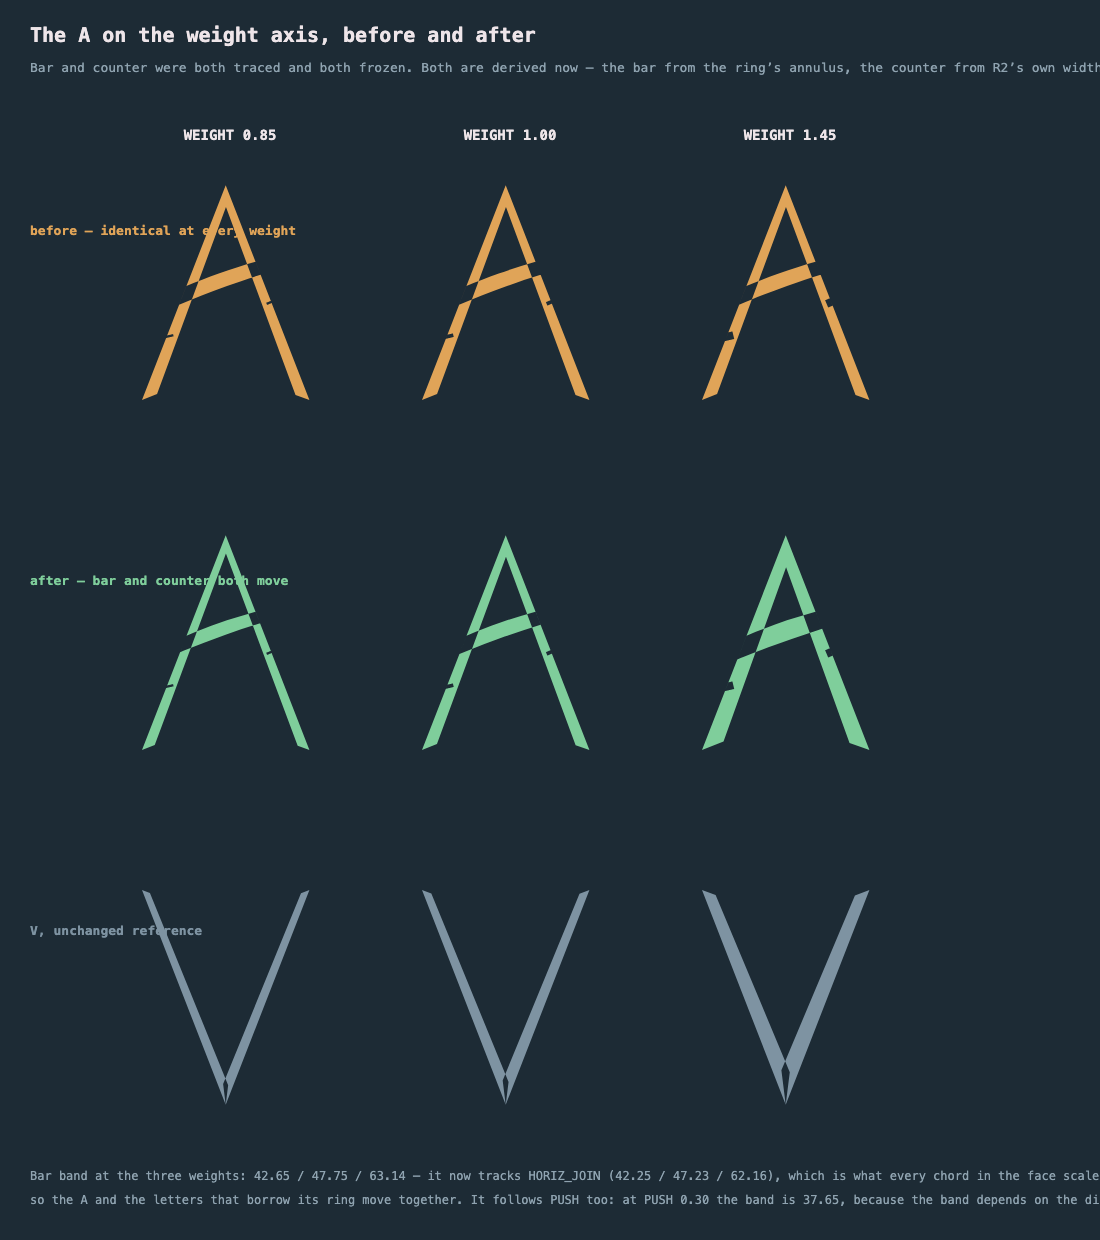
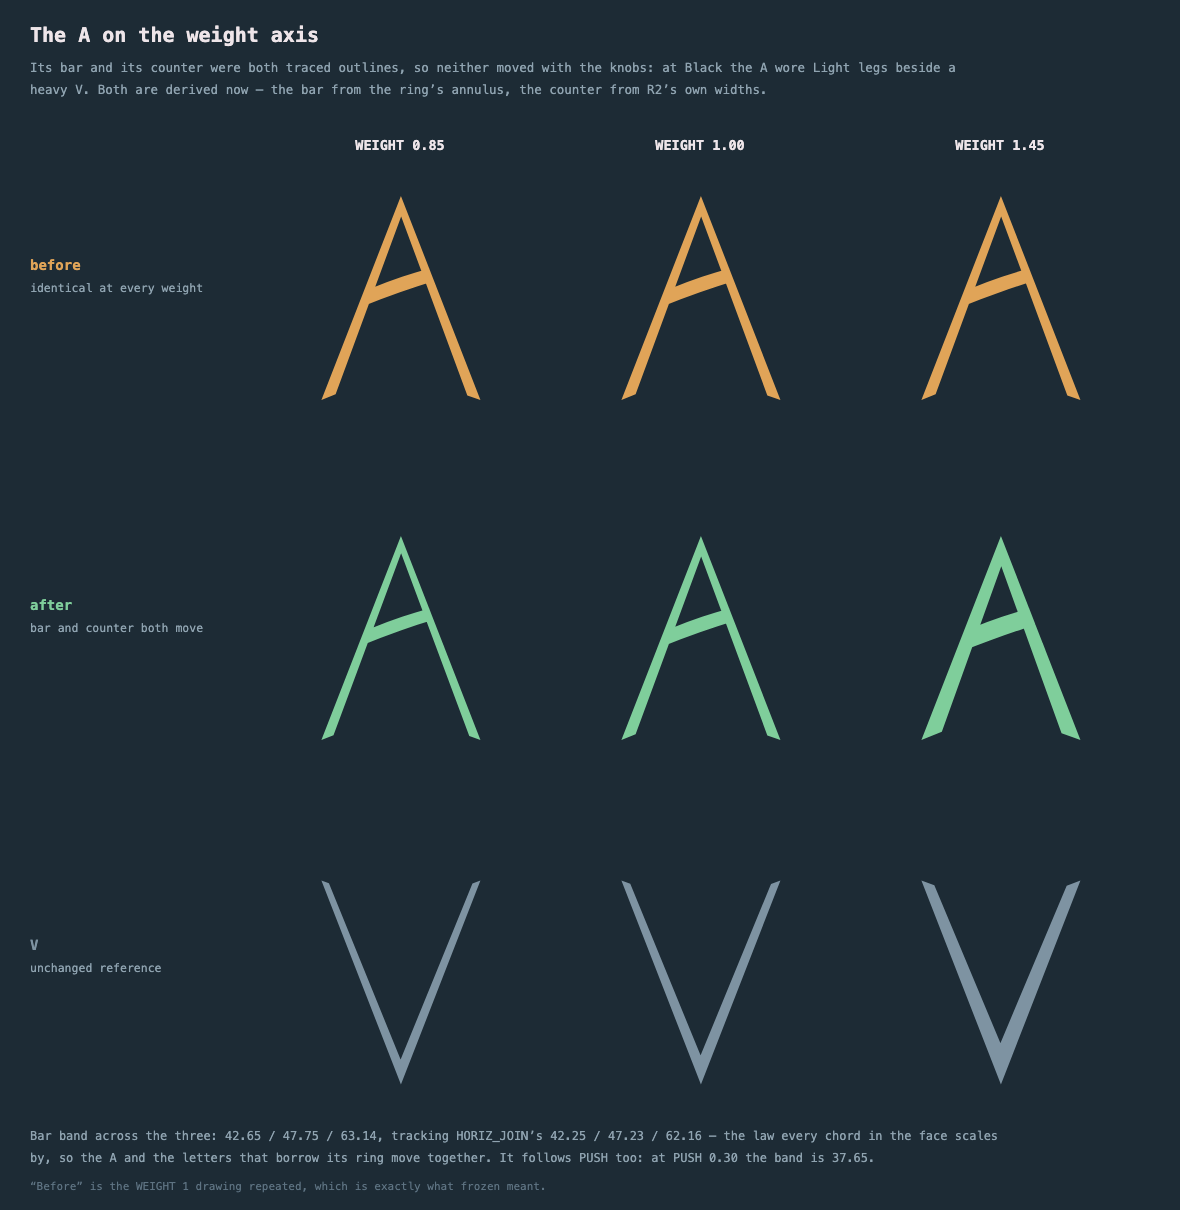
fix(font): repair four broken evidence sheets
All four were rendered to answer a question in conversation and then
promoted to PR evidence without being re-checked for that job.  Two of them
I had already spotted the defect in and committed anyway.

a-derived.png drew the A with fill-rule="evenodd".  The A is four
overlapping contours wound the same way -- polygon, bar, two ring tails --
so evenodd CANCELLED the overlaps and punched false notches in the legs
wherever the bar and the tails cross them.  A font unions them; nonzero
now.  "Before" is the WEIGHT 1 drawing repeated, which is exactly what
frozen meant, rather than a version of the code that no longer exists.

ring-underlay.png had the same bug on the mark itself: five contours all
wound the same way, so the ring's counter, the bar and the A criss-crossed
each other into a lattice instead of reading as one shape.  The underlay is
now built with fills ccw and holes cw so it unions under nonzero.  Its G row
was three identical pictures -- the G's bar spans 157.6, under the 251.11
crossover, so every reading gives the same glyph.  That is a real finding
about short chords and it is now one sentence instead of three cells.

ring-readings.png laid its letters on fixed column spacing, but the tilt
widens them, so the E and G ran off the sheet and overlapped.  Laid out on
their real advances.

overlay.png framed itself to the source artboard, 100x100, but the A mapped
back into source coordinates runs past it on three sides -- its apex
[…]

diff --git a/font/proof.py b/font/proof.py
@@ -30,8 +30,13 @@ def sheet(names, path, scale=0.32, pad=40):
     svg = f'<svg xmlns="http://www.w3.org/2000/svg" width="{W}" height="{H}"><rect width="{W}" height="{H}" fill="{BG}"/>{guides}{"".join(parts)}</svg>'
     open(path, 'w').write(svg)
 
-def overlay(path, S=9):
-    """The font's A and O mapped back into the source's coordinates (points), drawn over the source objects."""
+def overlay(path, S=9, PAD=4.0):
+    """The font's A and O mapped back into the source's coordinates (points), drawn over the source objects.
+
+    The frame is the BBOX of everything drawn, padded -- not the source artboard.  The artboard is
+    100x100 and the mapped-back A runs past it on three sides (its apex overshoots the cap line by
+    OVER_POINT and its feet sit below the baseline), so an artboard-sized frame cut the apex off.
+    """
     W, H = SRC['w'], SRC['h']
     gA, gO = G['glyphs']['A'], G['glyphs']['O']; nA, nO = gA['notes'], gO['notes']
     # inverse of build_A: undo x_shift and scale, then rotate back about the apex
@@ -43,8 +48,15 @@ def overlay(path, S=9):
     src = "".join(f'<path d="{" ".join(c.to_svg() for c in source_contours(o["items"]))}" fill="{INK}" fill-opacity="0.35" fill-rule="nonzero"/>' for o in SRC['objects'] if o['role'] != 'white')
     dA = " ".join(Contour.from_json(c).map(inv_A).to_svg() for c in gA['contours'])
     dO = " ".join(Contour.from_json(c).map(inv_O).to_svg() for c in gO['contours'])
-    svg = (f'<svg xmlns="http://www.w3.org/2000/svg" width="{W*S}" height="{H*S}"><rect width="100%" height="100%" fill="{BG}"/>'
-           f'<g transform="translate(0,{H*S}) scale({S},{-S})">{src}'
+    pts = [q for o in SRC['objects'] if o['role'] != 'white'
+             for c in source_contours(o['items']) for q in c.flatten()]
+    pts += [q for c in gA['contours'] for q in Contour.from_json(c).map(inv_A).flatten()]
+    pts += [q for c in gO['contours'] for q in Contour.from_json(c).map(inv_O).flatten()]
+    x0 = min(q[0] for q in pts) - PAD; x1 = max(q[0] for q in pts) + PAD
+    y0 = min(q[1] for q in pts) - PAD; y1 = max(q[1] for q in pts) + PAD
+    W, H = x1 - x0, y1 - y0
+    svg = (f'<svg xmlns="http://www.w3.org/2000/svg" width="{W*S:.0f}" height="{H*S:.0f}"><rect width="100%" height="100%" fill="{BG}"/>'
+           f'<g transform="translate({-x0*S:.2f},{y1*S:.2f}) scale({S},{-S})">{src}'
            f'<path d="{dO}" fill="none" stroke="{ACC}" stroke-width="{2.2/S}" fill-rule="nonzero"/>'
            f'<path d="{dA}" fill="none" stroke="{RED}" stroke-width="{2.2/S}" fill-rule="nonzero"/></g>'
            f'<text x="8" y="20" fill="{INK}" font-family="monospace" font-size="13">source objects (light) · font O (blue) · font A (red), both mapped back to the source frame</text></svg>')
